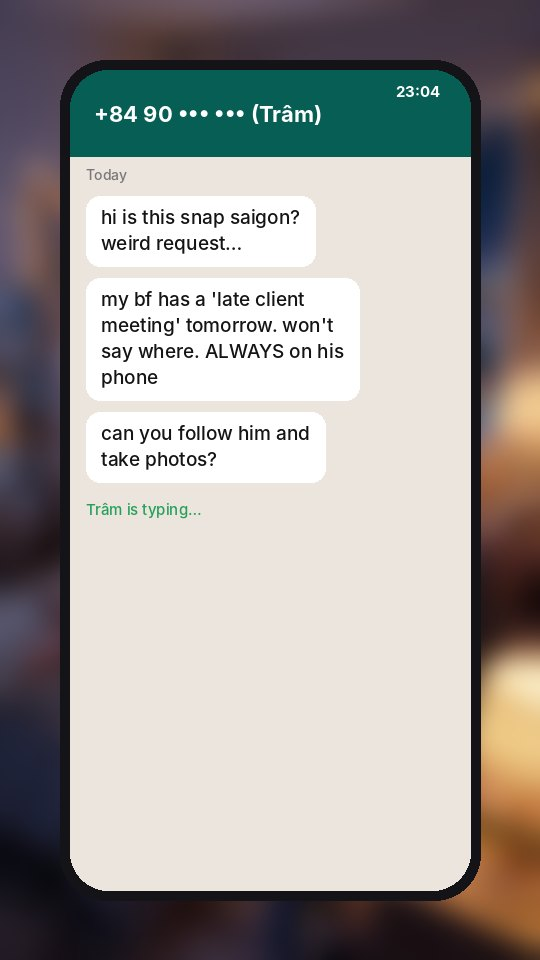
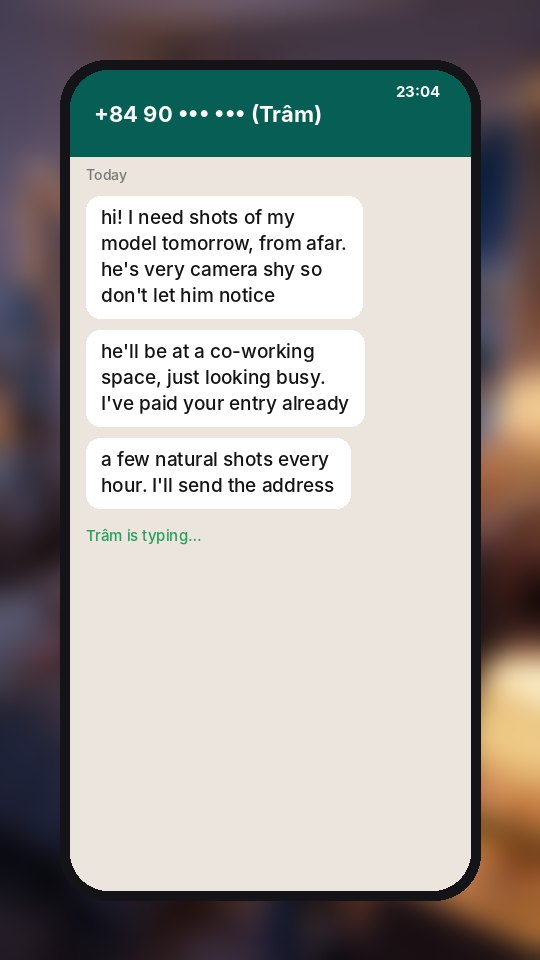
PI Job Part 1 storyboard v2: Klaus's panel notes (hidden motive, sus not cheating, customer-service yes, how-I-got-here open, hook bank)
Claude-Session: https://claude.ai/code/session_01WS9BYH3d8NDtrhwDTxiAoF

Changed region(s): [[0.1481, 0.1875, 0.6815, 0.5625]]

diff --git a/projects/snap-saigon-drop/pi_job/board/index.html b/projects/snap-saigon-drop/pi_job/board/index.html
@@ -44,6 +44,7 @@ dd{margin:0}
 .essence{background:color-mix(in srgb,var(--accent) 22%,transparent);border-radius:8px;padding:8px 10px}
 .cut{font-family:var(--f-mono);font-size:13px}
 .flag{background:var(--flag-bg);border-left:3px solid var(--chg);padding:6px 10px;border-radius:4px;font-size:13.5px}
+.changed{border-left:3px solid var(--ok);background:color-mix(in srgb,var(--ok) 12%,transparent);padding:6px 10px;border-radius:4px;font-size:13.5px}
 .notes{display:flex;flex-direction:column;gap:8px}
 .seg{display:flex;gap:6px}
 .seg button{flex:1;font:600 13px var(--f-body);padding:8px 6px;border-radius:8px;border:1px solid var(--line);background:transparent;color:var(--ink);cursor:pointer}
@@ -55,6 +56,7 @@ textarea{width:100%;min-height:110px;resize:vertical;font:14px/1.45 var(--f-body
 .box{background:var(--panel);border:1px solid var(--line);border-radius:14px;padding:18px 20px}
 .cols{display:grid;grid-template-columns:repeat(2,minmax(0,1fr));gap:20px}
 .box ul{margin:8px 0 0;padding-left:18px} .box li{margin:4px 0}
+.hooks{margin:10px 0 0;padding-left:22px;display:grid;gap:6px;font:600 15px var(--f-body)}
 .summary{display:flex;flex-wrap:wrap;gap:10px;align-items:center;font-size:14px}
 .pill{font:600 12px var(--f-mono);padding:4px 10px;border-radius:999px;border:1px solid var(--line)}
 @media (max-width:860px){.panel{grid-template-columns:150px minmax(0,1fr)}.notes{grid-column:1/-1}.cols{grid-template-columns:1fr}}
@@ -64,15 +66,30 @@ textarea{width:100%;min-height:110px;resize:vertical;font:14px/1.45 var(--f-body
 
 <div class="wrap">
   <header>
-    <div class="eyebrow">Snap Saigon · The PI Job · Part 1 "The Booking" · storyboard v1 · 30 Oct 2026</div>
+    <div class="eyebrow">Snap Saigon · The PI Job · Part 1 "The Booking" · storyboard v2 · your notes applied · 30 Oct 2026</div>
     <h1>Tap ✅ or ✏ on every panel before we render a single second of video</h1>
-    <p class="lede">These frames are cheap stills (about 1.5 credits each) and free phone mock-ups. <b>Leave a note on any panel</b> about the expression, the line, the timing, or the joke. I'll fix the board first, then animate only once it's right. Target length: <b>about 21 s</b>.</p>
+    <p class="lede">These frames are cheap stills (about 1.5 credits each) and free phone mock-ups. <b>Leave a note on any panel</b> about the expression, the line, the timing, or the joke. I'll fix the board first, then animate only once it's right. Target length: <b>about 22 s</b>. Panels marked <b>Changed from your note</b> show exactly what I did with each comment.</p>
   </header>
 
   <section class="box">
     <div class="eyebrow">Pacing strip · width = seconds on screen · tap a frame to jump to it</div>
     <div class="strip" id="strip"></div>
     <div class="legend" style="margin-top:10px"><span><b>Shape:</b> fast 1 s hook → slow, cosy room (1.8 s) → speeds up as the texts arrive → 0.4 s bursts on the joke → long hold on the punchline loop</span></div>
+  </section>
+
+
+  <section class="box">
+    <h2>Hook bank: a different on-screen hook for each post</h2>
+    <p class="lede" style="margin-top:4px">Same video, different top line, so each post tests a new angle. The VO stays “You might be wondering how I got here…” in all of them.</p>
+    <ol class="hooks">
+      <li>“the weirdest booking I've ever taken”</li>
+      <li>“she paid me to photograph her 'model'. he didn't know.”</li>
+      <li>“rule #1: don't talk to him. rule #2: only talk to me.”</li>
+      <li>“POV: your client's request is a little too specific”</li>
+      <li>“I'm a photographer, not a detective. (day 1 of being a detective)”</li>
+      <li>“good customer service got me into this”</li>
+    </ol>
+    <p class="lede">Tick the ones you like in the notes on panel 1, or add your own.</p>
   </section>
 
   <section class="box summary" id="summary" aria-live="polite"></section>
@@ -105,66 +122,70 @@ textarea{width:100%;min-height:110px;resize:vertical;font:14px/1.45 var(--f-body
 
 <script>
 const PANELS=[
- {id:"p01",img:"img/f13.jpg",s:1.0,title:"Cold open: the weirdest detective in Saigon",shot:"FULL · low angle · slight handheld push",
-  hear:"Street chaos, scooter horns → RECORD SCRATCH. Music hits on the scratch.",text:"Top: “the weirdest booking I've ever taken”",
-  essence:"The hook is the strangest image in the episode, before any context. Viewers stay to find out why she's dressed like this.",
-  cut:"Hard cut on the scratch → panel 2. Street sound cuts to quiet bedroom tone.",
-  flag:"Her fake moustache is barely visible. I'll make it bigger and more obviously stuck on before animating."},
- {id:"p02",img:"img/f02.jpg",s:1.8,title:"12 hours earlier: Hân, bored, swiping",shot:"WIDE · static · night bedroom",
-  hear:"Fan hum, faint city. Hân (mumbling, lip-sync): “no… no… ew…”. Soft lo-fi bed starts.",text:"Small: “11:04 pm · the night before”",
-  essence:"Sets her world: a snapper (ring light, camera bag), single and bored. The face mask pays off two shots later.",
-  cut:"Cut on action: her thumb swipes → the swipe continues on the phone screen (panel 3)."},
- {id:"p03",img:"img/p03.jpg",s:1.0,title:"It's a match: “J”",shot:"INSERT · phone screen POV",
-  hear:"Swipe swish → match chime. J's text pops in with a ding.",text:"J: “you look like trouble ;)”",
-  essence:"Plants J. In Part 3 the audience realises J is Jake, so his photo stays blurred and his bio sounds too perfect.",
-  cut:"J-cut: the chime starts over the phone and carries into her face (panel 4).",
-  flag:"In the real video this is a made-up dating app, not Tinder (no real brand names on screen)."},
- {id:"p04",img:"img/f04.jpg",s:1.2,title:"“OH.” (charmed already)",shot:"CU · face-mask glow · slow push",
-  hear:"Hân: “OH.” (small, delighted). Thought VO: “he types FAST. a man of action.”",text:"Thought bubble",
-  essence:"She's easily charmed. That makes Part 5 believable, when she melts for the same man.",
-  cut:"Pattern interrupt: a DIFFERENT notification sound (WhatsApp) cuts into her thought."},
- {id:"p05",img:"img/p05.jpg",s:1.5,title:"A stranger's weird request",shot:"INSERT · WhatsApp · messages type in one by one",
-  hear:"3 quick message pops. Trâm's voice reads the texts quietly under them (VO).",text:"The three messages on screen",
-  essence:"The inciting incident in three lines: suspicious boyfriend, a 'late client meeting', 'follow him'.",
-  cut:"Match on typing: the screen's 'Trâm is typing…' → cut to Trâm typing (panel 6)."},
- {id:"p06",img:"img/f06.jpg",s:2.2,title:"Trâm, alone, hurt",shot:"MS · Trâm faces LEFT (toward Hân across the cut) · static",
-  hear:"Her room is quieter and colder (no fan). Nora VO: “can you follow him… and take photos?”",text:"none, so her face carries it",
-  essence:"The one serious beat. The couple photo turned face-down shows her hurt is real, so the comedy has stakes.",
-  cut:"L-cut: her line “…take photos?” carries over Hân bolting upright (panel 7)."},
- {id:"p07",img:"img/f07.jpg",s:0.6,title:"Bolt upright, mask flies",shot:"MS · cut on action · whip zoom",
-  hear:"WHOOSH + wet mask SPLAT on the wall. Music stops for one beat.",text:"none",
-  essence:"Her personality in one physical gag: chaotic, all in, instantly.",
-  cut:"Straight into 3 rapid thought bubbles on the same shot (panel 8)."},
- {id:"p08",img:"img/p08.jpg",s:1.2,title:"Intrusive thoughts × 3",shot:"Same shot · 3 bubbles at 0.4 s each",
-  hear:"ding · ding · DING (rising pitch)",text:"“PI ERA.” → “he's 100% cheating.” → “secret TWO wives??”",
-  essence:"The fastest beat in the episode. Her brain runs ahead of the facts, which is the series' running joke.",
-  cut:"Hard cut to her phone keyboard (panel 9), with keyboard taps already audible."},
- {id:"p09",img:"img/p09.jpg",s:1.6,title:"She tries to say no… twice",shot:"INSERT · typing, then deleting",
-  hear:"Keyboard clicks · backspace × 2 (the delete sound is the joke)",text:"“I'm a wedding photographer” → deleted → “ok but why me” → deleted",
-  essence:"She has ethics… for 1.6 seconds. This sets up the snap decision in panel 11.",
-  cut:"Cut on the reply landing → Trâm (panel 10)."},
- {id:"p10",img:"img/f10.jpg",s:1.0,title:"“I'll pay double.”",shot:"CU · Trâm, faces LEFT · tiny push",
-  hear:"Nora VO, cool and flat: “I'll pay double.” A single bass note.",text:"“I'll pay double.”",
-  essence:"The button: Trâm knows exactly what she's doing. The power shifts with one line.",
-  cut:"Smash cut, with no pause, to Hân typing (panel 11)."},
- {id:"p11",img:"img/f11.jpg",s:1.0,title:"“SEND THE ADDRESS.”",shot:"CU · Hân faces RIGHT · whip zoom in",
-  hear:"Hân (lip-sync, instant): “SEND THE ADDRESS.” Detective sting.",text:"“SEND THE ADDRESS 🕵♀”",
-  essence:"The laugh: her ethics lasted 1.6 seconds. Price beats principles.",
-  cut:"Her phone buzzes again: a J-cut back into the dating app (panel 12).",
-  flag:"Costume continuity: she's in day clothes (white tee + jeans). She needs to stay in her blue pyjamas, as in panels 2 and 7. I'll fix this frame."},
- {id:"p12",img:"img/p12.jpg",s:2.0,title:"“classified 🤫”",shot:"INSERT · dating-app chat",
-  hear:"J ding. Hân typing. Thought VO: “I am SO mysterious.”",text:"J: “what are you up to tomorrow?” / “can't say. classified”",
-  essence:"Dramatic irony: she's chatting with the very man she'll be tailing. The audience gets the payoff in Part 3.",
-  cut:"Hard cut on 'mysterious' → loops back to the opening image (panel 13)."},
- {id:"p13",img:"img/f13.jpg",s:3.0,title:"Day 1. (the loop closes)",shot:"FULL · same frame as panel 1 · held, sweat drips",
-  hear:"Street ambience returns. A local: “…em ơi, nóng không?” (“aren't you hot?”). Button sting.",text:"“Day 1.” → “Part 2 →” · comment prompt: “would YOU take this job?”",
-  essence:"We end where we began, so the reel loops seamlessly into a rewatch. The comment question drives replies.",
-  cut:"End. Loops to panel 1."},
+ {id:"v2-01",img:"img/f13b.jpg",s:1.6,title:"Cold open: \u201cyou might be wondering how I got here…\u201d",shot:"FULL · low angle · freeze-frame on the record scratch",
+  hear:"Street chaos → RECORD SCRATCH + freeze. Hân VO, deadpan: \u201cYou might be wondering how I got here…\u201d",text:"On-screen hook changes per post (see the hook bank below)",
+  essence:"Opens on the strangest image, frozen, with the classic \u201chow I got here\u201d line. Viewers stay to find out why.",
+  cut:"Hard cut out of the freeze → bedroom. Street sound cuts to quiet room tone.",
+  changed:"Your note: added the \u201cyou might be wondering how I got here\u201d VO, plus a different on-screen hook for each post. Fixed the moustache: now big, crooked and peeling."},
+ {id:"v2-02",img:"img/f02.jpg",s:1.8,title:"12 hours earlier: Hân, bored, swiping",shot:"WIDE · static · night bedroom",
+  hear:"Fan hum, faint city. Hân (mumbling, lip-sync): \u201cno… no… ew…\u201d. Soft lo-fi bed starts.",text:"Small: \u201c11:04 pm · the night before\u201d",
+  essence:"Sets her world: a snapper (ring light, camera bag), single and bored.",
+  cut:"Cut on action: her thumb swipes → the swipe continues on the phone screen."},
+ {id:"v2-03",img:"img/p03.jpg",s:1.0,title:"It's a match: \u201cJ\u201d",shot:"INSERT · phone screen POV",
+  hear:"Swipe swish → match chime. J's text pops in with a ding.",text:"J: \u201cyou look like trouble ;)\u201d",
+  essence:"Plants J. In Part 3 the audience realises J is Jake.",
+  cut:"J-cut: the chime carries into her face.",flag:"The final video uses a made-up dating app, not Tinder."},
+ {id:"v2-04",img:"img/f04.jpg",s:1.2,title:"\u201cOH.\u201d (charmed already)",shot:"CU · face-mask glow · slow push",
+  hear:"Hân: \u201cOH.\u201d Thought VO: \u201che types FAST. a man of action.\u201d",text:"Thought bubble",
+  essence:"She's easily charmed. That makes Part 5 believable.",
+  cut:"Pattern interrupt: a WhatsApp ding cuts into her thought."},
+ {id:"v2-05",img:"img/p05.jpg",s:2.2,title:"A normal-sounding job… with a camera-shy \u201cmodel\u201d",shot:"INSERT · WhatsApp · messages type in one by one",
+  hear:"3 message pops. Trâm's voice reads them, light and businesslike (VO).",text:"\u201cI need shots of my model tomorrow, from afar… he's very camera shy… co-working space… I've paid your entry… a few natural shots every hour\u201d",
+  essence:"The cheating is HIDDEN. It sounds like an odd but ordinary booking, so the audience is as clueless as Hân and the reveal comes later.",
+  cut:"Match on typing: 'Trâm is typing…' → cut to Trâm.",
+  changed:"Your note: no cheating reveal. Trâm frames it as a candid shoot of her camera-shy model at a co-working space, entry already paid."},
+ {id:"v2-06",img:"img/f06b.jpg",s:1.6,title:"Trâm, breezy: \u201cnothing major\u201d",shot:"MS · Trâm faces LEFT · relaxed",
+  hear:"Nora VO, casual and light: \u201cIt's nothing major, just natural shots.\u201d",text:"none",
+  essence:"She brushes it off like a routine errand. Only the audience may notice the couple photo turned face-down: the one clue, planted quietly.",
+  cut:"Her phone sends → the next message lands on Hân's screen.",
+  changed:"Your note: Trâm's tone is now casual and unbothered (new frame). The face-down photo is kept as a silent clue."},
+ {id:"v2-07",img:"img/p07r.jpg",s:1.4,title:"\u201cJust 2 rules.\u201d",shot:"INSERT · the rules land one line at a time",
+  hear:"pop · pop · pop. Music drops out on 'only talk to me'.",text:"\u201cjust 2 rules: 1) don't talk to him 2) only talk to me. got it?\u201d",
+  essence:"The first oddness. The rules are what make it feel sus.",
+  cut:"Cut on the last pop → Hân bolts upright."},
+ {id:"v2-08",img:"img/f07.jpg",s:0.6,title:"Bolt upright, mask flies",shot:"MS · cut on action · whip zoom",
+  hear:"WHOOSH + wet mask SPLAT.",text:"none",
+  essence:"Her personality in one physical gag: chaotic, all in.",cut:"Straight into her thoughts on the same shot."},
+ {id:"v2-09",img:"img/p08.jpg",s:1.2,title:"\u201cthis is so sus\u201d",shot:"Same shot · 3 bubbles at 0.4 s each",
+  hear:"ding · ding · DING",text:"\u201ca camera-shy… model?\u201d \u2192 \u201cdon't TALK to him??\u201d \u2192 \u201cthis is so sus.\u201d",
+  essence:"Suspicious, not shocked yet. No cheating theory, only a 'something's off' feeling the audience shares.",
+  cut:"Hard cut to her keyboard, with taps already audible.",
+  changed:"Your note: toned down from 'cheating / two wives' to 'this sounds sus'."},
+ {id:"v2-10",img:"img/p09.jpg",s:1.6,title:"She starts to question it… twice",shot:"INSERT · typing, then deleting",
+  hear:"Keyboard clicks · backspace × 2",text:"\u201cwhy can't I talk to h…\u201d \u2192 deleted \u2192 \u201cis this legal\u201d \u2192 deleted",
+  essence:"She has doubts but is too polite to ask. That trait pays off in Part 5, when she can't say no to Jake.",
+  cut:"Cut on the last backspace → her customer-service face."},
+ {id:"v2-11",img:"img/p11.jpg",s:1.4,title:"\u201cSure, we can do this!\u201d",shot:"CU · Hân faces RIGHT · bright customer-service smile",
+  hear:"Hân (lip-sync, extra cheerful): \u201cSure, we can do this!\u201d Thought VO: \u201cgood customer service. 5 stars.\u201d",text:"\u201cSure, we can do this! 😊\u201d",
+  essence:"She says yes to be accommodating, not for money. Her people-pleasing is the engine of the whole season.",
+  cut:"Send whoosh → Trâm reads the reply.",
+  changed:"Your note: no 'pay double'. She agrees to give good, accommodating service. New frame in her pyjamas, which also fixes the costume error."},
+ {id:"v2-12",img:"img/f10.jpg",s:1.0,title:"\u201cPerfect.\u201d",shot:"CU · Trâm faces LEFT · tiny push",
+  hear:"Nora VO, cool: \u201cPerfect. Remember… only talk to me.\u201d One low note.",text:"\u201cPerfect. Remember… only talk to me.\u201d",
+  essence:"A small hint that there's more going on, without revealing what.",
+  cut:"Hân's phone buzzes: J-cut back into the dating app."},
+ {id:"v2-13",img:"img/p12.jpg",s:2.0,title:"\u201cclassified 🤫\u201d",shot:"INSERT · dating-app chat",
+  hear:"J ding. Hân typing. Thought VO: \u201cI am SO mysterious.\u201d",text:"J: \u201cwhat are you up to tomorrow?\u201d / \u201ccan't say. classified\u201d",
+  essence:"Dramatic irony: she's chatting with the very 'model' she'll photograph tomorrow.",
+  cut:"Hard cut on 'mysterious' → back to the opening image."},
+ {id:"v2-14",img:"img/f13b.jpg",s:3.0,title:"Day 1. (the loop closes)",shot:"FULL · same frame as panel 1 · held, sweat drips",
+  hear:"Street ambience returns. A local: \u201c…em ơi, nóng không?\u201d (\u201caren't you hot?\u201d). Button sting.",text:"\u201cDay 1.\u201d → \u201cPart 2 →\u201d · comment prompt: \u201cwould YOU take this job?\u201d",
+  essence:"We end where we began, so the reel loops seamlessly. The comment question drives replies.",cut:"End. Loops to panel 1."},
 ];
 const st={};const $=s=>document.querySelector(s);
 function esc(t){const d=document.createElement("div");d.textContent=t;return d.innerHTML}
 function renderStrip(){
-  let t=0;$("#strip").innerHTML=PANELS.map(p=>{const a=`<a href="#${p.id}" style="--s:${p.s}" data-st="${st[p.id]?.status||""}" aria-label="Panel ${p.id.slice(1)}, ${p.s} seconds"><img src="${p.img}" alt=""><span>${p.id.slice(1)} · ${t.toFixed(1)}s</span></a>`;t+=p.s;return a}).join("");
+  let t=0;$("#strip").innerHTML=PANELS.map(p=>{const a=`<a href="#${p.id}" style="--s:${p.s}" data-st="${st[p.id]?.status||""}" aria-label="Panel ${PANELS.indexOf(p)+1}, ${p.s} seconds"><img src="${p.img}" alt=""><span>${String(PANELS.indexOf(p)+1).padStart(2,"0")} · ${t.toFixed(1)}s</span></a>`;t+=p.s;return a}).join("");
 }
 function renderSummary(){
   const ok=PANELS.filter(p=>st[p.id]?.status==="ok").length,ch=PANELS.filter(p=>st[p.id]?.status==="change").length;
@@ -183,6 +204,7 @@ function renderPanels(){
         <dt>Why it's here</dt><dd class="essence">${esc(p.essence)}</dd>
         <dt>Cut to next</dt><dd class="cut">${esc(p.cut)}</dd>
       </dl>
+      ${p.changed?`<div class="changed"><b>Changed from your note:</b> ${esc(p.changed)}</div>`:""}
       ${p.flag?`<div class="flag"><b>I spotted:</b> ${esc(p.flag)}</div>`:""}
     </div>
     <div class="notes">
@@ -209,7 +231,7 @@ async function save(id,patch,label){
   const sv=document.getElementById("sv-"+id);
   if(!db){sv.textContent="Can't save here: notes need you signed in on claude.ai.";return}
   if(readOnly){sv.textContent="View only: you can't save notes on this link.";return}
-  try{await db.collection("notes").doc(id).set({status:st[id].status||null,note:st[id].note||"",panel:Number(id.slice(1)),updatedAt:new Date().toISOString()});sv.textContent="Saved ✓"}
+  try{await db.collection("notes").doc(id).set({status:st[id].status||null,note:st[id].note||"",panel:PANELS.findIndex(p=>p.id===id)+1,board:"v2",updatedAt:new Date().toISOString()});sv.textContent="Saved ✓"}
   catch(e){if(e&&e.code==="invalid_argument"){readOnly=true;sv.textContent="View only: you can't save notes on this link."}else sv.textContent="Couldn't save. Try again in a moment."}
 }
 document.addEventListener("click",e=>{const b=e.target.closest(".seg button");if(!b)return;const id=b.dataset.id;const cur=st[id]?.status;save(id,{status:cur===b.dataset.v?null:b.dataset.v})});
@@ -218,6 +240,6 @@ document.addEventListener("input",e=>{const ta=e.target.closest("textarea");if(!
 (async()=>{
   try{db=await window.claude?.use?.("db")}catch{db=null}
   if(!db){for(const p of PANELS)document.getElementById("sv-"+p.id).textContent="Open on claude.ai while signed in to save notes.";return}
-  db.collection("notes").onSnapshot(snap=>{for(const d of snap.docs){const v=d.data();if(v)st[d.id]={status:v.status||null,note:v.note||""}}paint()},()=>{});
+  db.collection("notes").onSnapshot(snap=>{for(const d of snap.docs){const v=d.data();if(v&&d.id.startsWith("v2-"))st[d.id]={status:v.status||null,note:v.note||""}}paint()},()=>{});
 })();
 </script>

diff --git a/projects/snap-saigon-drop/pi_job/board/make_board_img.py b/projects/snap-saigon-drop/pi_job/board/make_board_img.py
@@ -36,18 +36,18 @@ phone((255,255,255),"tinder",(255,90,110),"p03",tinder,base="raw/f04.png")
 def wa(d,x,y,w):
   d.text((x+16,y-4),"Today",font=F(14,False),fill=(120,120,120))
   yy=y+26
-  for t in["hi is this snap saigon? weird request…","my bf has a 'late client meeting' tomorrow. won't say where. ALWAYS on his phone","can you follow him and take photos? 👀".replace(" 👀","")]:
+  for t in["hi! I need shots of my model tomorrow, from afar. he's very camera shy so don't let him notice","he'll be at a co-working space, just looking busy. I've paid your entry already","a few natural shots every hour. I'll send the address"]:
     yy=bub(d,x,yy,w,t,False)
   d.text((x+16,yy+6),"Trâm is typing…",font=F(15,False),fill=(37,160,90))
 phone((236,229,221),"+84 90 ••• ••• (Trâm)",(7,94,84),"p05",wa,base="raw/f02.png")
 # 09 typing + delete
 def typ(d,x,y,w):
   yy=y+26
-  for t in["hi is this snap saigon? weird request…","…can you follow him and take photos?"]:yy=bub(d,x,yy,w,t,False)
+  for t in["just 2 rules:","1) don't talk to him","2) only talk to me. got it?"]:yy=bub(d,x,yy,w,t,False)
   d.rounded_rectangle((x+12,y+560,x+w-12,y+612),26,fill="white")
-  d.text((x+30,y+574),"I'm a wedding photographer|",font=F(19,False),fill=(20,20,20))
+  d.text((x+30,y+574),"why can't I talk to h|",font=F(19,False),fill=(20,20,20))
   d.line((x+30,y+586,x+300,y+586),fill=(230,60,60),width=3)
-  d.text((x+30,y+622),"✕ deleted → \"ok but why me|\" ✕ deleted".replace("✕","x"),font=F(15,False),fill=(160,60,60))
+  d.text((x+30,y+622),"x deleted → \"is this legal\" x deleted",font=F(15,False),fill=(160,60,60))
   for r in range(3):
     for c in range(10):d.rounded_rectangle((x+14+c*37,y+660+r*46,x+46+c*37,y+698+r*46),6,fill=(250,250,250))
 phone((236,229,221),"Trâm",(7,94,84),"p09",typ,base="raw/f07.png")
@@ -62,8 +62,18 @@ def tchat(d,x,y,w):
 phone((255,255,255),"J",(255,90,110),"p12",tchat,base="raw/f11.png")
 # 08 thought-burst over f07
 im=Image.open("img/f07.jpg");d=ImageDraw.Draw(im)
-for i,(t,y) in enumerate([("PI ERA.",120),("he's 100% cheating.",230),("secret TWO wives??",340)]):
+for i,(t,y) in enumerate([("a camera-shy… model?",120),("don't TALK to him??",230),("this is so sus.",340)]):
   f=F(30);w=d.textlength(t,font=f)+40;x=40+i*40
   d.rounded_rectangle((x,y,x+w,y+70),22,fill=(255,199,39));d.text((x+20,y+17),t,font=f,fill=(30,22,84))
 im.save("img/p08.jpg",quality=86)
 print("ok")
+# p07r: the 2 rules land (no typing yet)
+def rules(d,x,y,w):
+  yy=y+26
+  for t in["a few natural shots every hour. I'll send the address","just 2 rules:","1) don't talk to him","2) only talk to me. got it?"]:yy=bub(d,x,yy,w,t,False)
+phone((236,229,221),"Trâm",(7,94,84),"p07r",rules,base="raw/f06.png")
+# p11 thought over customer-service smile
+im=Image.open("img/f10b.jpg");d=ImageDraw.Draw(im)
+f=F(30);t="good customer service. 5 stars."
+w_=d.textlength(t,font=f)+40;d.rounded_rectangle((40,120,40+w_,190),22,fill=(255,199,39));d.text((60,137),t,font=f,fill=(30,22,84))
+im.save("img/p11.jpg",quality=86)

diff --git a/projects/snap-saigon-drop/PI_JOB_SEASON1.md b/projects/snap-saigon-drop/PI_JOB_SEASON1.md
@@ -14,7 +14,7 @@
 ## Arc
 | Part | Title | Beat | Cliffhanger |
 |---|---|---|---|
-| 1 | The Booking | Trâm's 11 pm request. Hân is far TOO excited. Meanwhile she's matching with "J". | "…send the address 🕵♀" |
+| 1 | The Booking | Trâm's 11 pm request, framed as a candid shoot of her camera-shy "model" at a co-working space, with 2 rules (don't talk to him, only talk to me). The cheating stays hidden. Hân thinks it's sus but says yes for good customer service. Meanwhile she's matching with "J". | "Perfect. Remember… only talk to me." |
 | 2 | The Tail | Hân tails Jake badly, with terrible disguises. J's flirty texts arrive at oddly perfect moments. | Jake buys roses. Thought bubble: "for the OTHER WOMAN 😤" |
 | 3 | Overtime | The shift ends, Trâm pays for 2 more hours. J: "near Bitexco too 😂" | Jake's in the café window. Phone buzz: "in the corner 😉" |
 | 4 | The Corner | Hân realises Jake = J. Intrusive-thought meltdown. | "my customer's boyfriend… was my date." |
@@ -24,6 +24,20 @@
 | 8 | The Shoot | A rooftop glow-up shoot with Trâm and her roses (a one-off; Trâm isn't recurring). Trâm posts the photos; Jake likes them; she blocks him. | End card: "real feelings. real photos. snap saigon." |
 
 ---
+
+### Part 1 v2: Klaus's storyboard notes (30 Oct 2026, master spec)
+Board: https://claude.ai/artifact/MccuJtnZGDHE5qc1KskhMp (14 panels, about 22 s).
+- **Cold open:** freeze-frame on Hân in the trench coat and moustache. VO: "You might be wondering how I got here…". The on-screen hook changes per post (hook bank on the board).
+- **Trâm's brief hides the cheating:**
+  - "I need shots of my model tomorrow, from afar. He's very camera shy, so don't let him notice. He'll be at a co-working space, just looking busy. I've paid your entry. A few natural shots every hour. I'll send the address."
+  - Then: "Just 2 rules: 1) don't talk to him, 2) only talk to me. Got it?"
+  - Her tone is breezy ("it's nothing major"). The couple photo turned face-down is the only clue, and only the audience sees it.
+- **Hân's thoughts are "sus", not "cheating":** "a camera-shy… model?" / "don't TALK to him??" / "this is so sus."
+- **She agrees to be accommodating (good customer service), not for money:** "Sure, we can do this!" Trâm: "Perfect. Remember… only talk to me."
+- **Knock-on (to confirm with Klaus):** the reason behind the job now has to surface later.
+  - Proposal: in Part 2, Hân notices the "model" never models. He texts and smiles at his phone, buys roses, and Trâm keeps asking "is he with anyone?". Hân pieces it together: "…this isn't a photoshoot. this is a stakeout."
+  - Part 3 ("my customer's boyfriend… was my date") then lands harder.
+
 
 ## Part 1, "The Booking" (≈35 s)
 **Hook (0-2 s):** black, then a WhatsApp ding. Text: *"the weirdest booking I've ever taken"*
